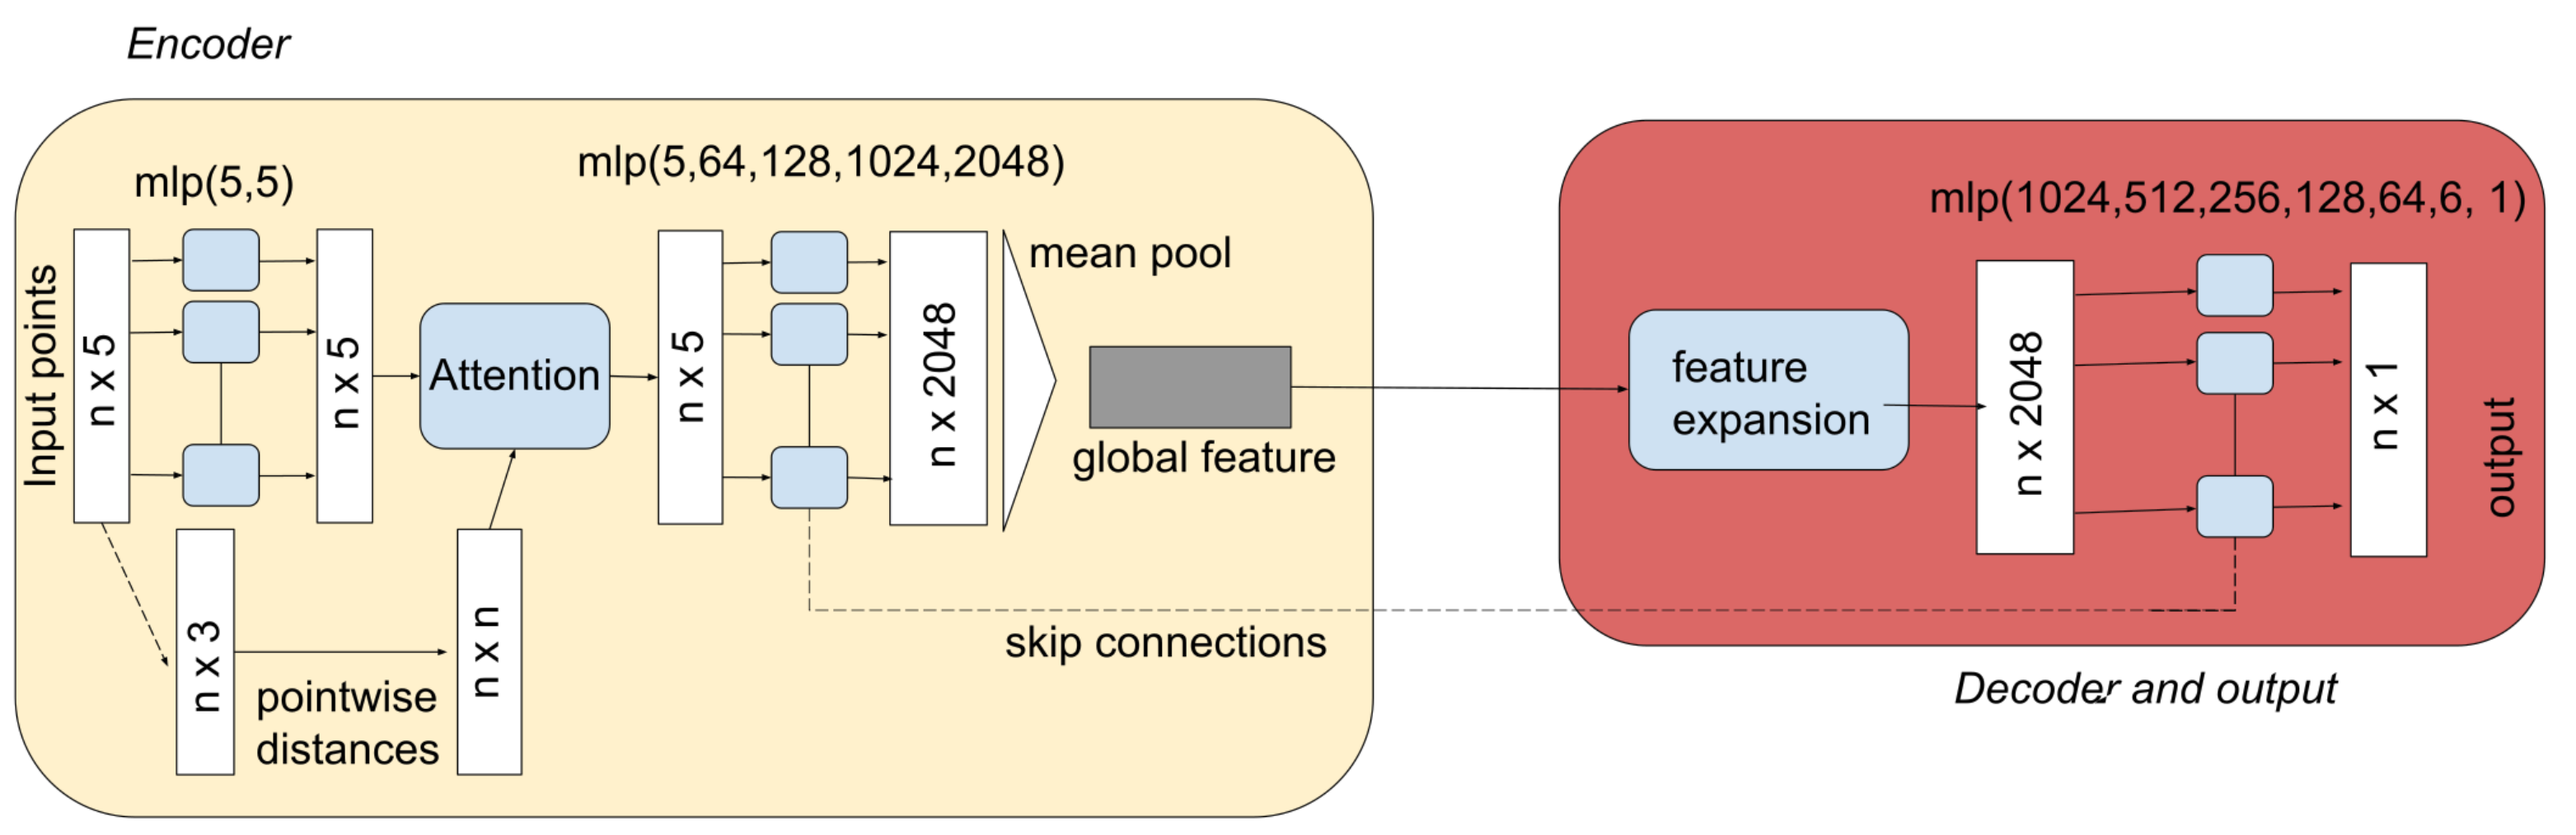
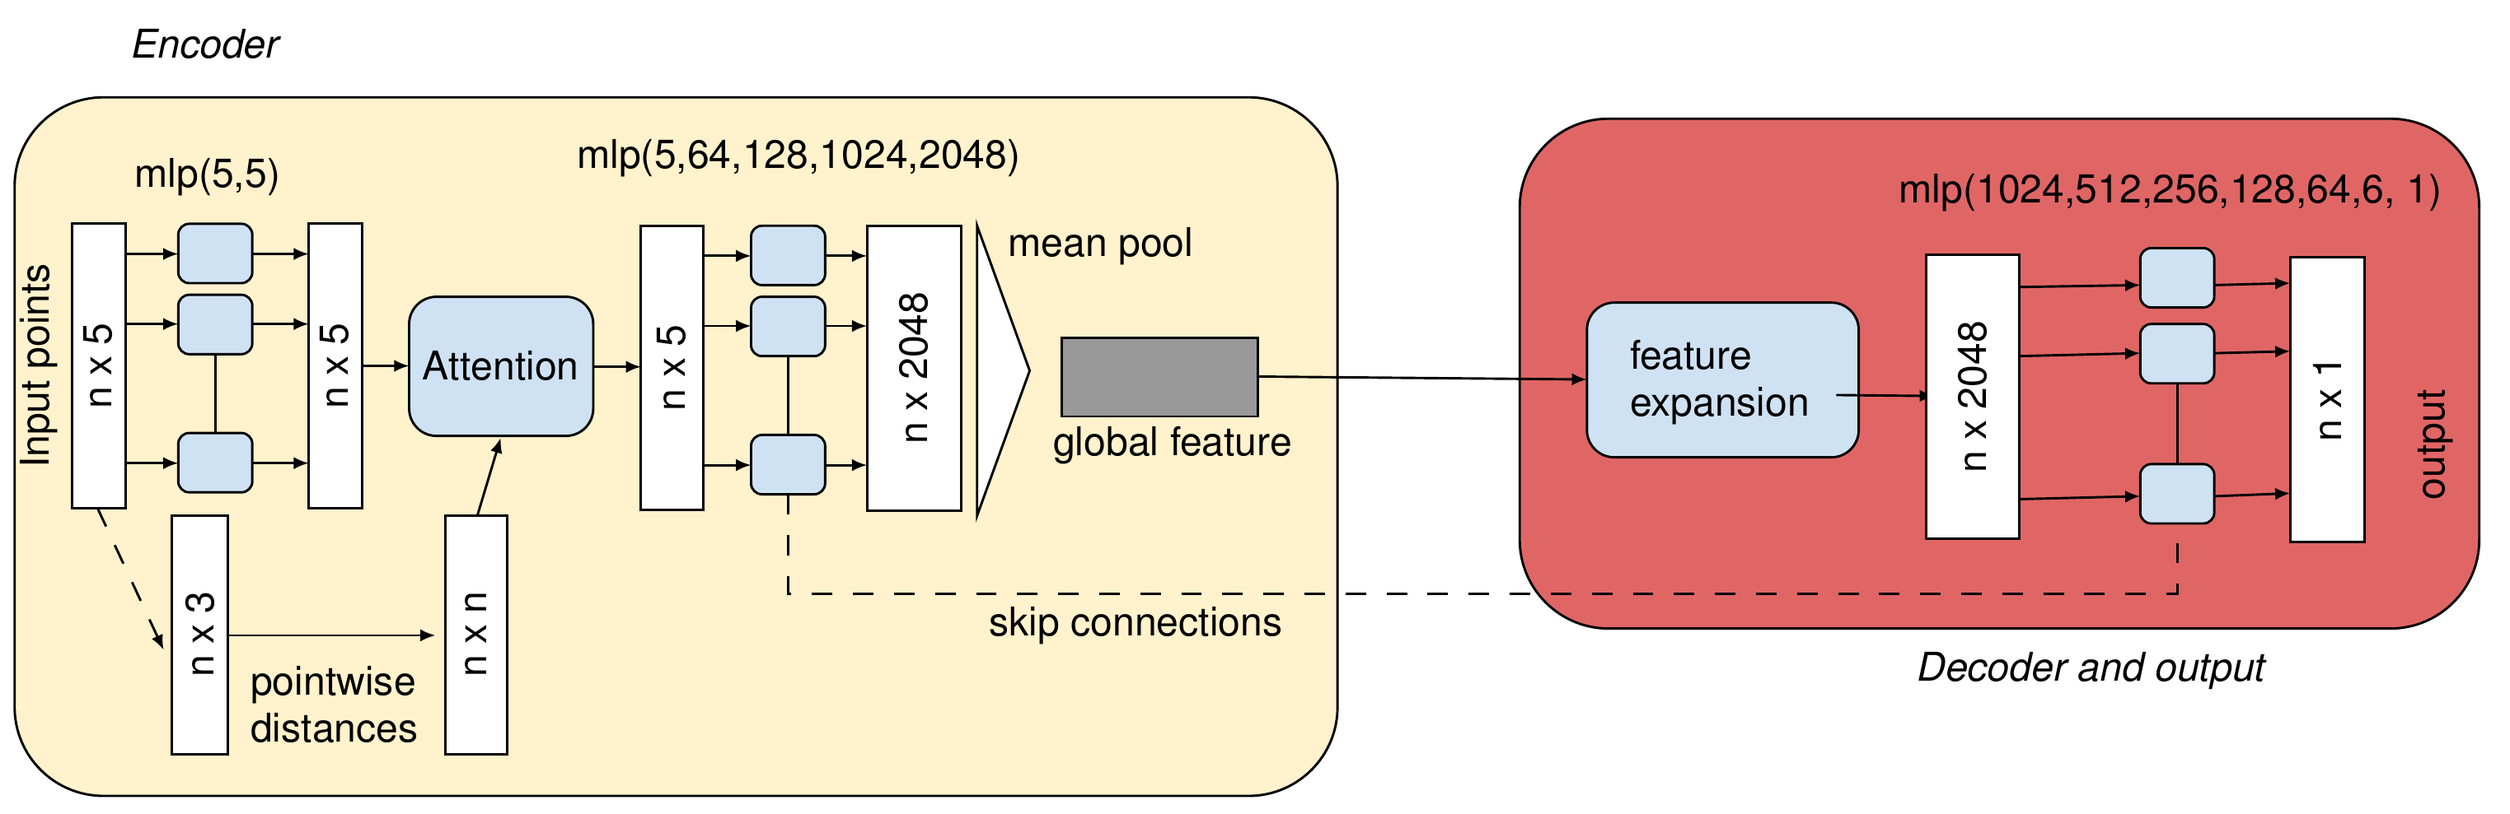
Replace the Software category with AI; surrogate figure rebuilt in TikZ
- Categories are now AI, Medicine, Cybersecurity, Math, in that order.
  AI is on NeuroDaRe, BIDS-Eye and the cell-to-cell surrogate model;
  the other projects drop Software.
- Surrogate architecture figure is a 1:1 TikZ reconstruction of the
  original drawing (source in figures/).

diff --git a/src/resources/site.css b/src/resources/site.css
@@ -9,8 +9,8 @@
 
   /* Category colours: text colour and a light tint of it. Used by the
      project filter tabs and the topic tags on project cards. */
-  --cat-software: #0e7490;
-  --cat-software-tint: #e8f6f9;
+  --cat-ai: #0e7490;
+  --cat-ai-tint: #e8f6f9;
   --cat-cybersecurity: #b42318;
   --cat-cybersecurity-tint: #fdeeec;
   --cat-math: #6d28d9;
@@ -19,7 +19,7 @@
   --cat-medicine-tint: #e9f6ee;
 }
 
-[data-category="software"] { --cat: var(--cat-software); --cat-tint: var(--cat-software-tint); }
+[data-category="ai"] { --cat: var(--cat-ai); --cat-tint: var(--cat-ai-tint); }
 [data-category="cybersecurity"] { --cat: var(--cat-cybersecurity); --cat-tint: var(--cat-cybersecurity-tint); }
 [data-category="math"] { --cat: var(--cat-math); --cat-tint: var(--cat-math-tint); }
 [data-category="medicine"] { --cat: var(--cat-medicine); --cat-tint: var(--cat-medicine-tint); }

diff --git a/src/components/work/categories.ts b/src/components/work/categories.ts
@@ -1,10 +1,10 @@
 // One colour per high-level category. The filter tags and the category tags
 // on each project card use the same colours (defined as --cat-* in site.css).
-export type CategoryKey = "software" | "cybersecurity" | "math" | "medicine";
+export type CategoryKey = "ai" | "cybersecurity" | "math" | "medicine";
 
 export const CATEGORY_KEYS: Record<string, CategoryKey> = {
-  Software: "software",
+  AI: "ai",
+  Medicine: "medicine",
   Cybersecurity: "cybersecurity",
   Math: "math",
-  Medicine: "medicine",
 };

diff --git a/src/app/work/page.tsx b/src/app/work/page.tsx
@@ -30,7 +30,7 @@ export default function Work() {
       />
       <h1 className="page-title">Projects</h1>
       <p className="page-lede" style={{ marginBottom: "2rem" }}>
-        Research and engineering work in software, security, mathematics and medicine.
+        Research and engineering work in AI, medicine, security and mathematics.
       </p>
       <Projects filterable featured="neurodare" />
     </Column>

diff --git a/src/components/work/ProjectsBrowser.tsx b/src/components/work/ProjectsBrowser.tsx
@@ -19,7 +19,7 @@ export interface ProjectCardData {
 }
 
 // Fixed display order for the high-level category filter
-const CATEGORY_ORDER = ["Software", "Cybersecurity", "Math", "Medicine"];
+const CATEGORY_ORDER = ["AI", "Medicine", "Cybersecurity", "Math"];
 
 const ALL = "all";
 

diff --git a/figures/surrogate-architecture-redesign.tex b/figures/surrogate-architecture-redesign.tex
@@ -1,0 +1,88 @@
+% PointNet surrogate architecture (InterpretTME). Build:
+%   pdflatex surrogate-architecture.tex
+%   pdftoppm -png -r 300 -singlefile surrogate-architecture.pdf ../public/images/projects/surrogate-pointnet-architecture
+\documentclass[tikz,border=6pt]{standalone}
+\usepackage[T1]{fontenc}
+\usepackage{helvet}
+\usepackage{sansmath}
+\renewcommand{\familydefault}{\sfdefault}
+\sansmath
+\usetikzlibrary{arrows.meta,positioning,fit,backgrounds,calc}
+
+\definecolor{ink}{HTML}{1F2933}
+\definecolor{muted}{HTML}{5F6B7A}
+\definecolor{dataF}{HTML}{F1F3F5}  \definecolor{dataB}{HTML}{8A94A3}
+\definecolor{mlpF}{HTML}{DCE8F5}   \definecolor{mlpB}{HTML}{3B6EA5}
+\definecolor{attF}{HTML}{FBE6CF}   \definecolor{attB}{HTML}{C9731A}
+\definecolor{aggF}{HTML}{DDEFDD}   \definecolor{aggB}{HTML}{3F8A4A}
+\definecolor{grpF}{HTML}{FAFBFC}   \definecolor{grpB}{HTML}{C5CCD6}
+
+\begin{document}
+\begin{tikzpicture}[
+  font=\small, text=ink, >={Stealth[length=5pt,width=4.5pt]},
+  box/.style={draw, line width=0.7pt, rounded corners=3pt, align=center,
+              text width=2.5cm, minimum height=1.5cm, inner sep=6pt},
+  data/.style={box, fill=dataF, draw=dataB},
+  mlp/.style={box, fill=mlpF, draw=mlpB},
+  att/.style={box, fill=attF, draw=attB},
+  agg/.style={box, fill=aggF, draw=aggB},
+  flow/.style={->, line width=0.7pt, draw=ink},
+  skip/.style={->, line width=0.7pt, draw=muted, dashed},
+  dim/.style={font=\scriptsize, text=muted, inner sep=3pt},
+  tag/.style={font=\scriptsize, text=ink, fill=white, inner sep=3pt},
+  sub/.style={font=\scriptsize},
+]
+\def\dx{4.5}
+
+% ---------- encoder ----------
+\node[data] (in)   at (0,0)       {\textbf{Input points}\\[1pt]{\scriptsize $n \times 5$}};
+\node[mlp]  (mlp1) at (\dx,0)     {\textbf{Shared MLP}\\[1pt]{\scriptsize $(5,\,5)$}};
+\node[att]  (att)  at (2*\dx,0)   {\textbf{Attention}\\[1pt]{\scriptsize distance-weighted}};
+\node[mlp]  (mlp2) at (3*\dx,0)   {\textbf{Shared MLP}\\[1pt]{\scriptsize $(5,\,64,\,128,$\\ $1024,\,2048)$}};
+\node[agg]  (pool) at (4*\dx,0)   {\textbf{Mean pool}\\[1pt]{\scriptsize over points}};
+\node[agg]  (dist) at (\dx,2.9)   {\textbf{Pairwise}\\\textbf{distances}};
+
+\draw[flow] (in) -- (mlp1);
+\draw[flow] (mlp1) -- node[dim,above] {$n \times 5$} (att);
+\draw[flow] (att)  -- node[dim,above] {$n \times 5$} (mlp2);
+\draw[flow] (mlp2) -- node[dim,above] {$n \times 2048$} (pool);
+\draw[flow] (in.north) |- node[dim,above,pos=0.75] {$n \times 3$} (dist.west);
+\draw[flow] (dist.east) -| node[dim,above,pos=0.25] {$n \times n$} (att.north);
+
+% ---------- decoder ----------
+\node[agg]  (exp)  at (4*\dx,-4.1) {\textbf{Feature}\\\textbf{expansion}};
+\node[mlp]  (mlp3) at (3*\dx,-4.1) {\textbf{Shared MLP}\\[1pt]{\scriptsize $(1024,\,512,\,256,$\\ $128,\,64,\,6,\,1)$}};
+\node[data] (out)  at (2*\dx,-4.1) {\textbf{Output}\\[1pt]{\scriptsize $n \times 1$}};
+
+\draw[flow] (pool) -- node[tag,pos=0.5] {global feature} (exp);
+\draw[flow] (exp)  -- node[dim,above] {$n \times 2048$} (mlp3);
+\draw[flow] (mlp3) -- node[dim,above] {$n \times 1$} (out);
+\draw[skip] (mlp2) -- node[tag,pos=0.5] {skip connections} (mlp3);
+
+% ---------- groups ----------
+\begin{scope}[on background layer]
+  \node[draw=grpB, fill=grpF, line width=0.6pt, rounded corners=6pt,
+        inner xsep=14pt, inner ysep=14pt, fit=(in)(dist)(pool)] (enc) {};
+  \node[draw=grpB, fill=grpF, line width=0.6pt, rounded corners=6pt,
+        inner xsep=14pt, inner ysep=14pt, fit=(out)(exp)] (dec) {};
+\end{scope}
+\node[anchor=south west, font=\small\bfseries, text=muted, inner sep=2pt]
+  at ([yshift=3pt]enc.north west) {ENCODER};
+\node[anchor=north west, font=\small\bfseries, text=muted, inner sep=2pt]
+  at ([yshift=-3pt]dec.south west) {DECODER};
+
+% ---------- legend ----------
+\begin{scope}[shift={($(enc.south west)+(0.1,-1.25)$)}]
+  \foreach \i/\f/\b/\t in {0/dataF/dataB/tensor, 1/mlpF/mlpB/learned layers,
+                           2/attF/attB/attention, 3/aggF/aggB/fixed operation} {
+    \node[draw=\b, fill=\f, line width=0.6pt, rounded corners=1.5pt,
+          minimum width=0.42cm, minimum height=0.3cm, inner sep=0pt] at (0.21,-0.52*\i) {};
+    \node[anchor=west, font=\scriptsize, text=ink, inner sep=0pt] at (0.6,-0.52*\i) {\t};
+  }
+  \draw[flow] (2.9,0) -- (3.6,0);
+  \node[anchor=west, font=\scriptsize, inner sep=0pt] at (3.8,0) {data flow};
+  \draw[skip] (2.9,-0.52) -- (3.6,-0.52);
+  \node[anchor=west, font=\scriptsize, inner sep=0pt] at (3.8,-0.52) {skip};
+\end{scope}
+\end{tikzpicture}
+\end{document}

diff --git a/figures/surrogate-architecture.tex b/figures/surrogate-architecture.tex
@@ -1,0 +1,89 @@
+% Exact TikZ reconstruction of the original PointNet surrogate figure.
+% Coordinates are the pixel coordinates of the original drawing
+% (2576 x 836, y pointing down), so the result overlays the original.
+% Build:
+%   pdflatex surrogate-architecture.tex
+%   pdftoppm -png -r 300 -singlefile surrogate-architecture.pdf ../public/images/projects/surrogate-pointnet-architecture
+\documentclass[tikz,border=0pt]{standalone}
+\usepackage[T1]{fontenc}
+\usepackage{helvet}
+\renewcommand{\familydefault}{\sfdefault}
+\usetikzlibrary{arrows.meta}
+
+\definecolor{encF}{HTML}{FFF2CC}
+\definecolor{decF}{HTML}{E06666}
+\definecolor{opF}{HTML}{CFE2F3}
+\definecolor{gfF}{HTML}{999999}
+
+\begin{document}
+\begin{tikzpicture}[x=0.005cm, y=-0.005cm,
+  font=\fontsize{5.8}{6.9}\selectfont,
+  line width=0.35pt, >={Latex[length=2.2pt,width=1.8pt]},
+  tens/.style={draw, fill=white},
+  op/.style={draw, fill=opF, rounded corners=1.6pt},
+  lbl/.style={inner sep=0pt},
+]
+\useasboundingbox (0,0) rectangle (2576,836);
+
+% ---- backgrounds ----
+\draw[fill=encF, rounded corners=13pt] (15,100) rectangle (1373,818);
+\draw[fill=decF, rounded corners=13pt] (1560,122) rectangle (2545,646);
+\node[lbl, font=\fontsize{5.8}{6.9}\selectfont\itshape] at (209,45) {Encoder};
+\node[lbl, font=\fontsize{5.8}{6.9}\selectfont\itshape] at (2145,690) {Decoder and output};
+
+% ---- encoder: first shared MLP ----
+\node[lbl, rotate=90] at (40,376) {Input points};
+\draw[tens] (74,230) rectangle (129,522);   \node[lbl, rotate=90] at (101,376) {n x 5};
+\node[lbl] at (213,182) {mlp(5,5)};
+\foreach \y in {230,303,445} { \draw[op] (183,\y) rectangle (259,\y+61); }
+\draw (221,364) -- (221,445);
+\foreach \y in {261,333,476} { \draw[->] (129,\y) -- (183,\y); \draw[->] (259,\y) -- (317,\y); }
+\draw[tens] (317,230) rectangle (372,522);  \node[lbl, rotate=90] at (344,376) {n x 5};
+
+% ---- attention ----
+\draw[->] (372,376) -- (420,376);
+\draw[draw, fill=opF, rounded corners=4pt] (420,305) rectangle (609,448);
+\node[lbl] at (514,376) {Attention};
+\draw[->] (609,377) -- (658,377);
+
+% ---- encoder: second shared MLP ----
+\draw[tens] (658,232) rectangle (722,524);  \node[lbl, rotate=90] at (690,378) {n x 5};
+\node[lbl] at (820,162) {mlp(5,64,128,1024,2048)};
+\foreach \y in {232,305,447} { \draw[op] (771,\y) rectangle (847,\y+61); }
+\draw (809,366) -- (809,447);
+\foreach \y in {263,335,478} { \draw[->] (722,\y) -- (771,\y); \draw[->] (847,\y) -- (890,\y); }
+\draw[tens] (890,232) rectangle (987,525);  \node[lbl, rotate=90] at (938,378) {n x 2048};
+
+% ---- mean pool and global feature ----
+\draw[fill=white] (1003,232) -- (1057,381) -- (1003,530) -- cycle;
+\node[lbl] at (1130,253) {mean pool};
+\draw[fill=gfF] (1090,347) rectangle (1291,428);
+\node[lbl] at (1204,458) {global feature};
+
+% ---- pointwise distances ----
+\draw[->, dashed] (100,522) -- (168,668);
+\draw[tens] (176,530) rectangle (234,775);  \node[lbl, rotate=90] at (205,652) {n x 3};
+\draw[->] (234,653) -- (447,653);
+\node[lbl, align=left, anchor=west] at (256,724) {pointwise\\distances};
+\draw[tens] (457,530) rectangle (521,775);  \node[lbl, rotate=90] at (489,652) {n x n};
+\draw[->] (490,530) -- (514,450);
+
+% ---- skip connections ----
+\draw[dashed] (809,508) -- (809,610) -- (2235,610) -- (2235,538);
+\node[lbl] at (1166,643) {skip connections};
+
+% ---- decoder ----
+\draw[->] (1291,387) -- (1629,390);
+\draw[draw, fill=opF, rounded corners=4pt] (1629,311) rectangle (1908,470);
+\node[lbl, align=left, anchor=west] at (1672,393) {feature\\expansion};
+\draw[->] (1885,406) -- (1986,407);
+\draw[tens] (1977,262) rectangle (2073,554); \node[lbl, rotate=90] at (2025,408) {n x 2048};
+\node[lbl] at (2228,198) {mlp(1024,512,256,128,64,6, 1)};
+\foreach \y in {255,333,477} { \draw[op] (2197,\y) rectangle (2273,\y+61); }
+\draw (2235,394) -- (2235,477);
+\foreach \ya/\yb in {295/293, 366/363, 513/510} { \draw[->] (2073,\ya) -- (2197,\yb); }
+\foreach \ya/\yb in {293/291, 363/361, 510/507} { \draw[->] (2273,\ya) -- (2351,\yb); }
+\draw[tens] (2351,264) rectangle (2427,557); \node[lbl, rotate=90] at (2389,410) {n x 1};
+\node[lbl, rotate=90] at (2500,457) {output};
+\end{tikzpicture}
+\end{document}
